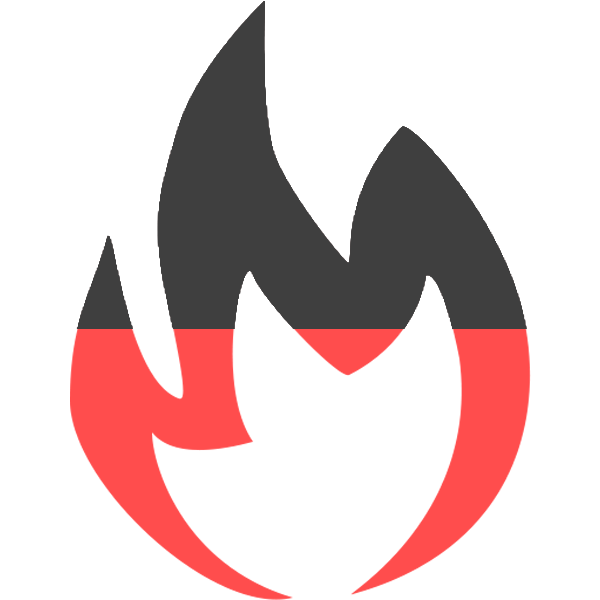
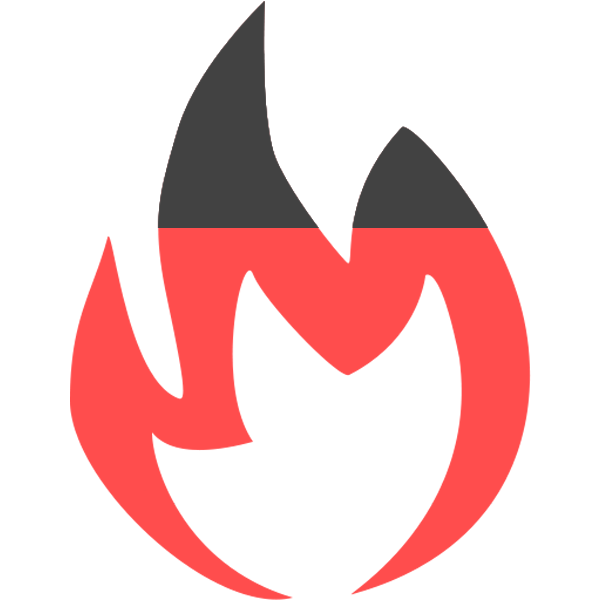
change three-quarters-lit.png

diff --git a/home.html b/home.html
@@ -65,7 +65,7 @@
                             </div>
                             <div class="card-rating-container">
                                 <div class="lit-rating-container">
-                                    <img class="lit-rating" src="img/really-lit.png" alt="really lit">
+                                    <img class="lit-rating" src="img/one-quarter-lit.png" alt="really lit">
                                 </div>
                             </div>
                         </div>
@@ -126,7 +126,7 @@
                             </div>
                             <div class="card-rating-container">
                                 <div class="lit-rating-container">
-                                    <img class="lit-rating" src="img/one-quarter-lit.png" alt="one quarter lit">
+                                    <img class="lit-rating" src="img/three-quarters-lit.png" alt="one quarter lit">
                                 </div>
                             </div>
                         </div>
